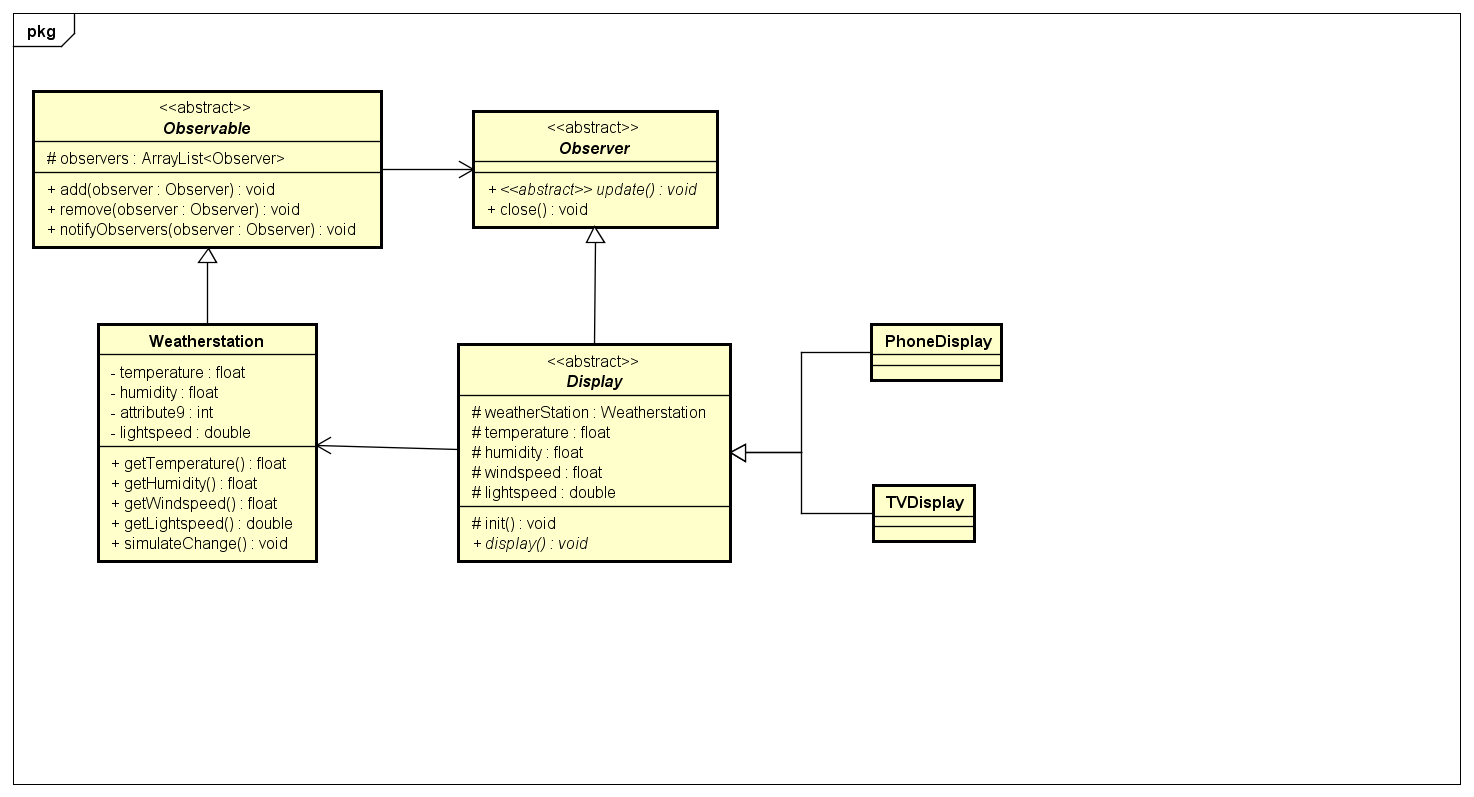
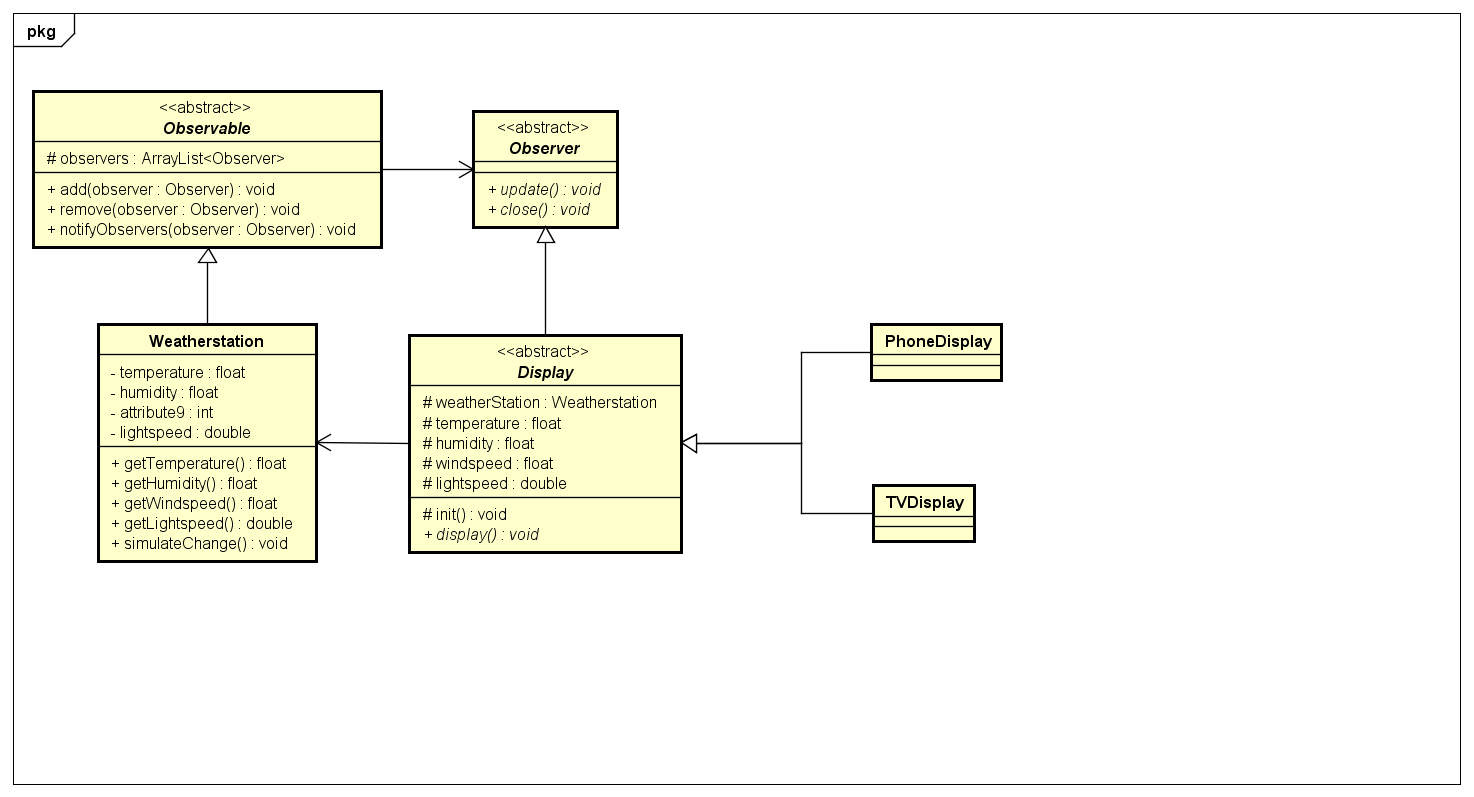
Observer UML korrigiert

Changed region(s): [[0.2185, 0.3915, 0.5617, 0.7227], [0.3433, 0.1205, 0.4993, 0.3011]]

diff --git a/ObserverPattern/README.md b/ObserverPattern/README.md
@@ -64,7 +64,9 @@ public abstract class Observer{
     /**
      * Meldet das Display von der Wetterstation ab
      */
-    public abstract void close();
+    public void close(){
+        
+    }
 }
 
 public abstract class Display extends Observer{
